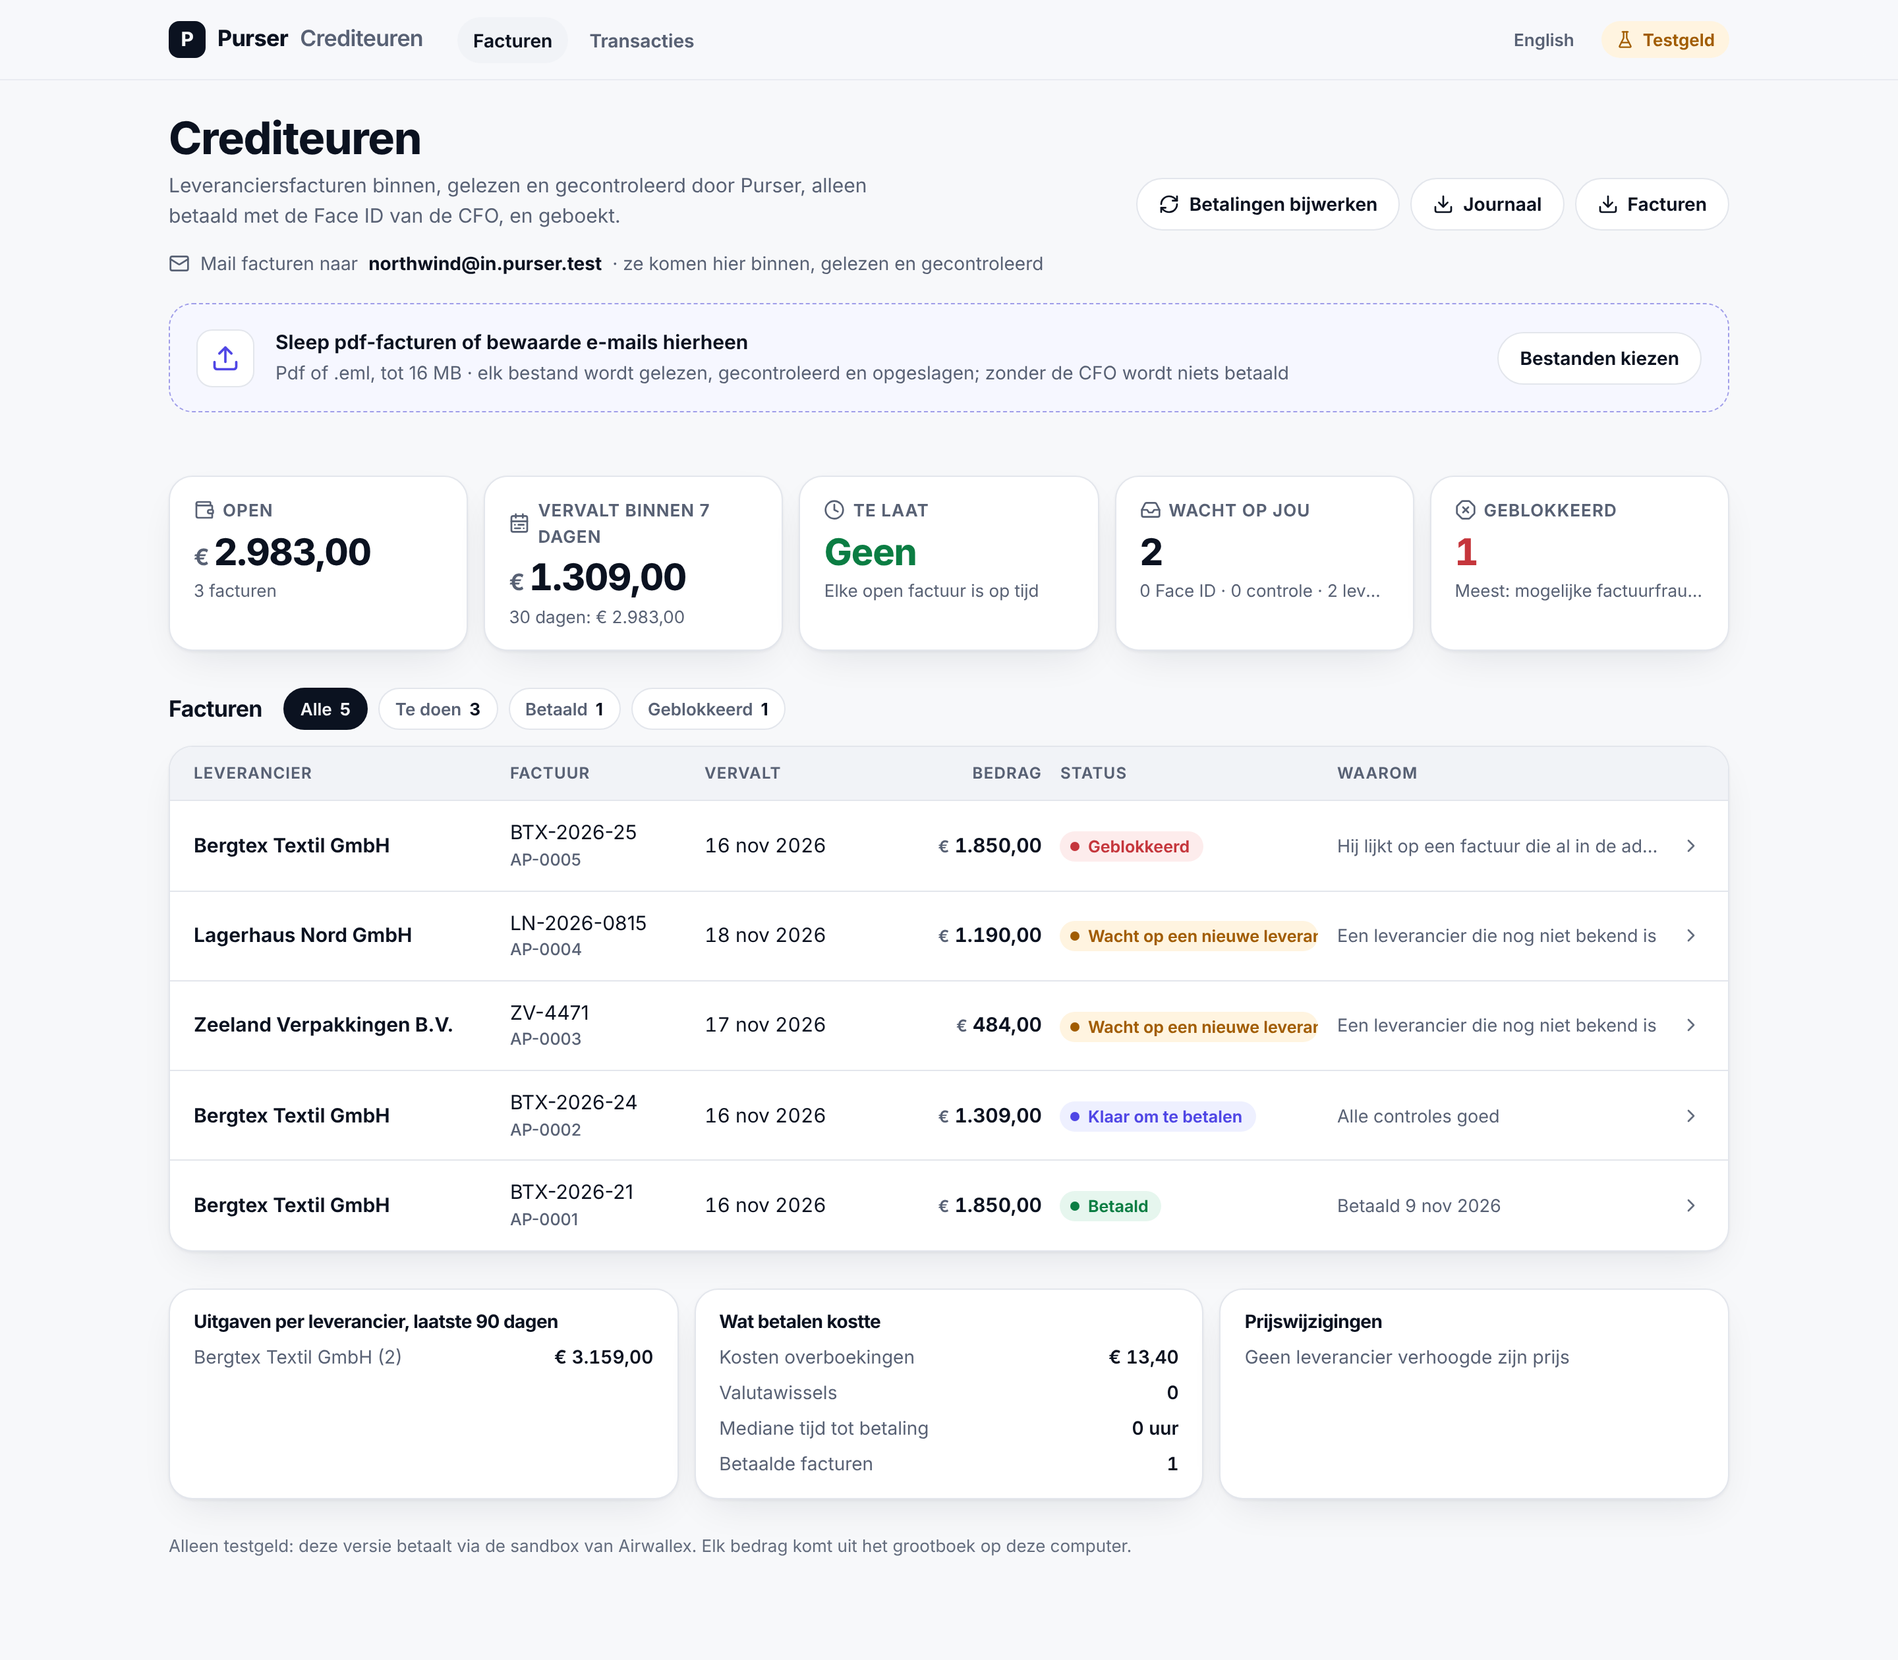
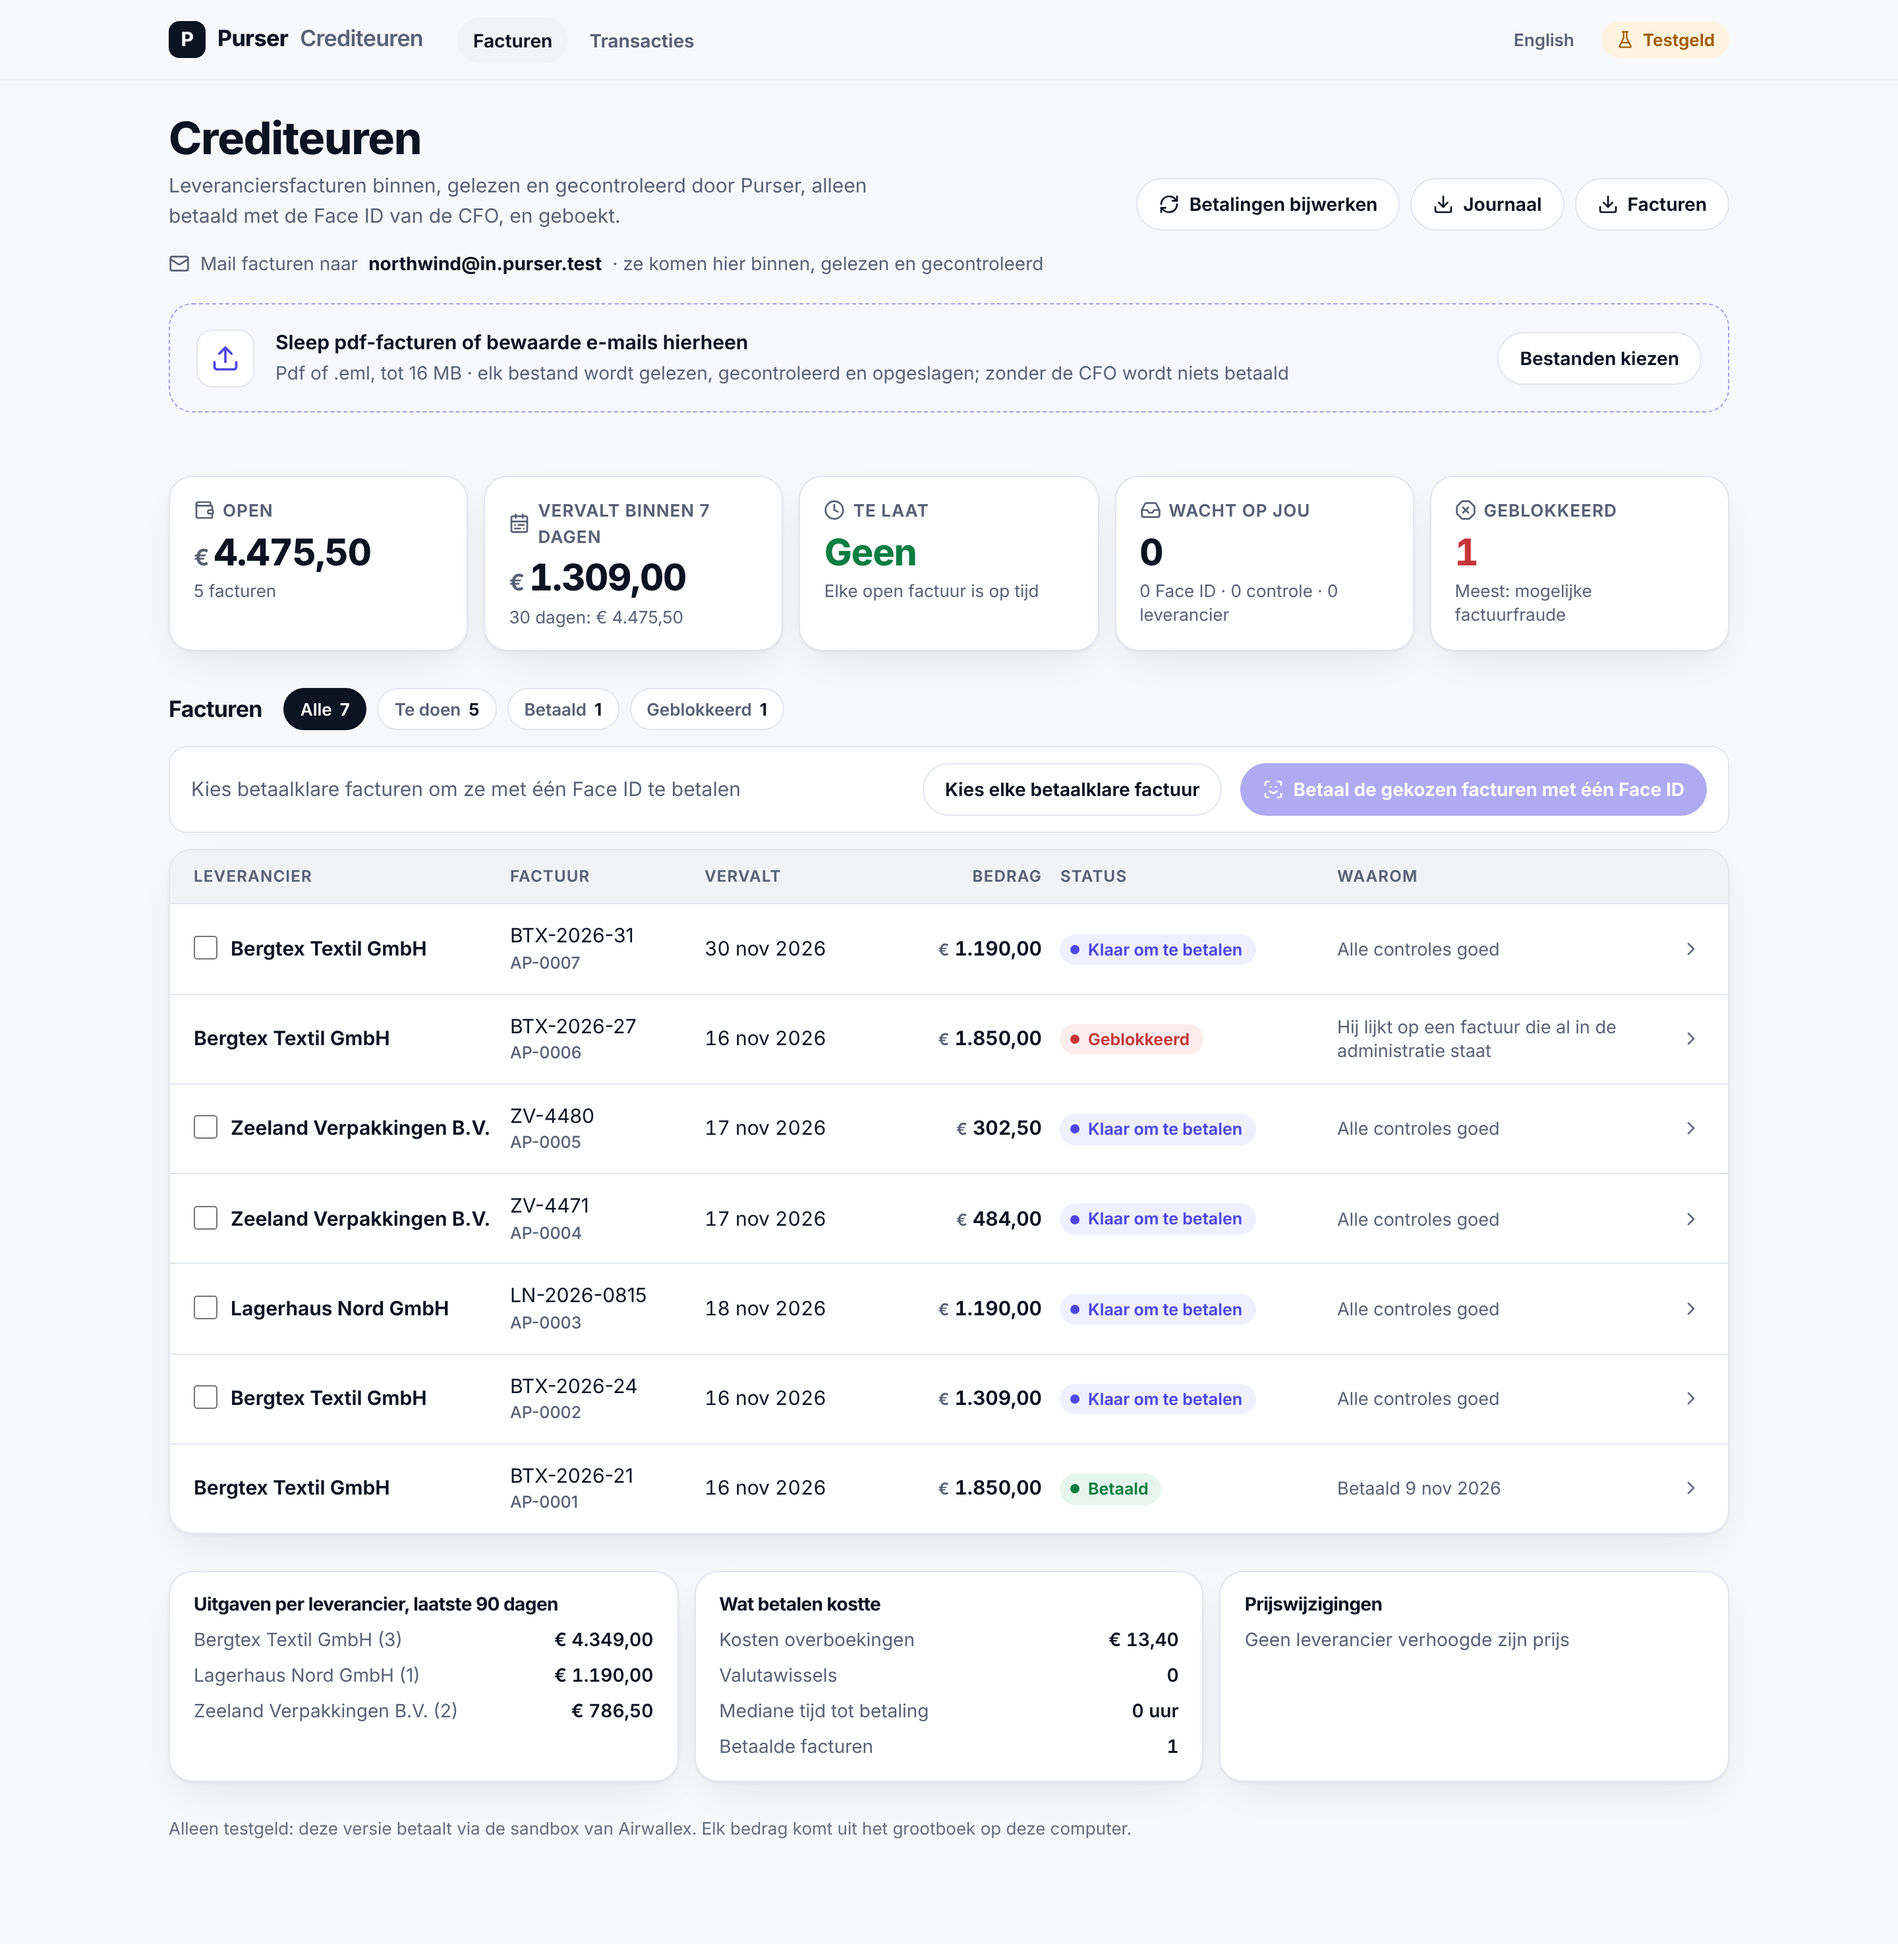
After the kit: bridge sentence, connected accounts built and waiting for sandbox access, fresh screenshots
- README and docs/after-the-kit.md open with the same control now paying supplier invoices for SMEs
- connected accounts: built, tested against a stand-in, waiting for sandbox access; payouts and card calls checked against the signed account binding
- four fresh screenshots (test company, sandbox, test money) with English captions

Claude-Session: https://claude.ai/code/session_017bq3Bxz45idsGUgFJjRs4G

diff --git a/docs/after-the-kit.md b/docs/after-the-kit.md
@@ -1,7 +1,6 @@
 # Built after the kit
 
-After the hackathon submission, Purser's rule (nothing is paid unless the CFO signed the exact terms) was applied to a
-second problem: paying supplier invoices in a small company. This is work in progress on a separate branch. It runs on
+The same control, the CFO's Face ID over the exact terms, now pays supplier invoices for SMEs. This is work in progress on a separate branch. It runs on
 the Airwallex sandbox with **test money**, it is **not deployed**, and no customer uses it. None of it is part of the
 Kit 11 runs described in the README.
 
@@ -17,16 +16,24 @@ Kit 11 runs described in the README.
 | Cloud console | Passkey sign-in (no passwords), onboarding, invoices, transactions, books, people and API keys, GDPR export. It never pays: payments are approved on the phone. Dutch and English. | Built, tested locally on Cloudflare's local D1; not deployed |
 | Security | Five red-team rounds on the payables and cloud code; every confirmed finding fixed and covered by a test. | Ongoing |
 
-## Planned: Airwallex connected accounts
+## Airwallex connected accounts: built, waiting for sandbox access
 
-Purser as an Airwallex platform: each customer gets its own Airwallex account through Purser (a connected account),
-Purser pays that customer's suppliers from it, and every payout is still approved by the CFO's Face ID over the
-exact terms. Connected accounts are not enabled for our sandbox yet (a test call on 9 November was refused); until Airwallex enables them, this is a plan,
-not a feature.
+Purser as an Airwallex platform: each customer opens its own Airwallex account through Purser (a connected account),
+Purser pays that customer's suppliers from it, and every payout is still approved by the CFO's Face ID over the exact
+terms. Purser keeps only the account id and status, never a key. Before every payout and every card call (create,
+limits, controls, status, transactions), Purser checks a signed binding between the company and its Airwallex account;
+a different, dormant, closed or expired account is refused and nothing reaches Airwallex.
 
-## Screenshots (test data, test money)
+This is built and tested against a stand-in for Airwallex. It has not run live: connected accounts are not enabled for
+our sandbox yet (a test call on 9 November was refused), and we have asked Airwallex to enable them.
+
+## Screenshots (test company, sandbox, test money)
+
+The screens are in Dutch, the default for a Dutch company; English is one click away.
 
 | | |
 |---|---|
 | ![Payables inbox](screenshots/after-kit/1-payables-inbox.png) | ![A scanned invoice, two readings](screenshots/after-kit/2-scanned-invoice.png) |
-| ![One Face ID for three invoices](screenshots/after-kit/3-batch-face-id-phone.png) | ![Cloud console](screenshots/after-kit/4-cloud-console.png) |
+| Payables inbox: what is open, due, blocked and why. | A scanned invoice: two readings agree, nine checks (read here by a stand-in model). |
+| ![One Face ID for three invoices](screenshots/after-kit/3-batch-face-id-phone.png) | ![Open an Airwallex account through Purser](screenshots/after-kit/4-airwallex-account.png) |
+| One Face ID for three invoices, with the account paid from and Purser's fee per line. | Opening the company's own Airwallex account through Purser (waiting for sandbox access). |

diff --git a/README.md b/README.md
@@ -118,14 +118,14 @@ Not validated with customers yet: no interviews, no pilots, no revenue. Every li
 
 ## Built after the kit (test environment, not live)
 
-After submitting, we started turning Purser into a payables product for small companies: the same rule, that nothing is paid unless the CFO signed the exact terms, applied to supplier invoices. All of it runs on the Airwallex sandbox with test money, on a branch, not on this site. Details: [docs/after-the-kit.md](docs/after-the-kit.md).
+The same control, the CFO's Face ID over the exact terms, now pays supplier invoices for SMEs. All of it runs on the Airwallex sandbox with test money, on a branch, not on this site. Details and screenshots: [docs/after-the-kit.md](docs/after-the-kit.md).
 
 - **Payables inbox:** supplier invoices arrive as PDF or e-mail, are read, checked (duplicates, changed bank details, totals) and booked.
 - **Scanned invoices:** two independent readings must agree on IBAN, total, currency and invoice number; otherwise a person decides.
 - **One Face ID for a batch:** the CFO signs a list of exact terms once; each payment still runs and is checked on its own.
 - **Cloud console** with passkey sign-in, a register of every money movement, Dutch screens.
 - **Five red-team rounds**, every confirmed finding fixed with a test.
-- **Planned:** onboarding each customer as an Airwallex connected account (not enabled for our sandbox yet).
+- **Airwallex connected accounts:** each customer opens its own Airwallex account through Purser; every payout and card call is checked against that company's signed account binding. Built, waiting for sandbox access.
 
 ## Who does what
 
